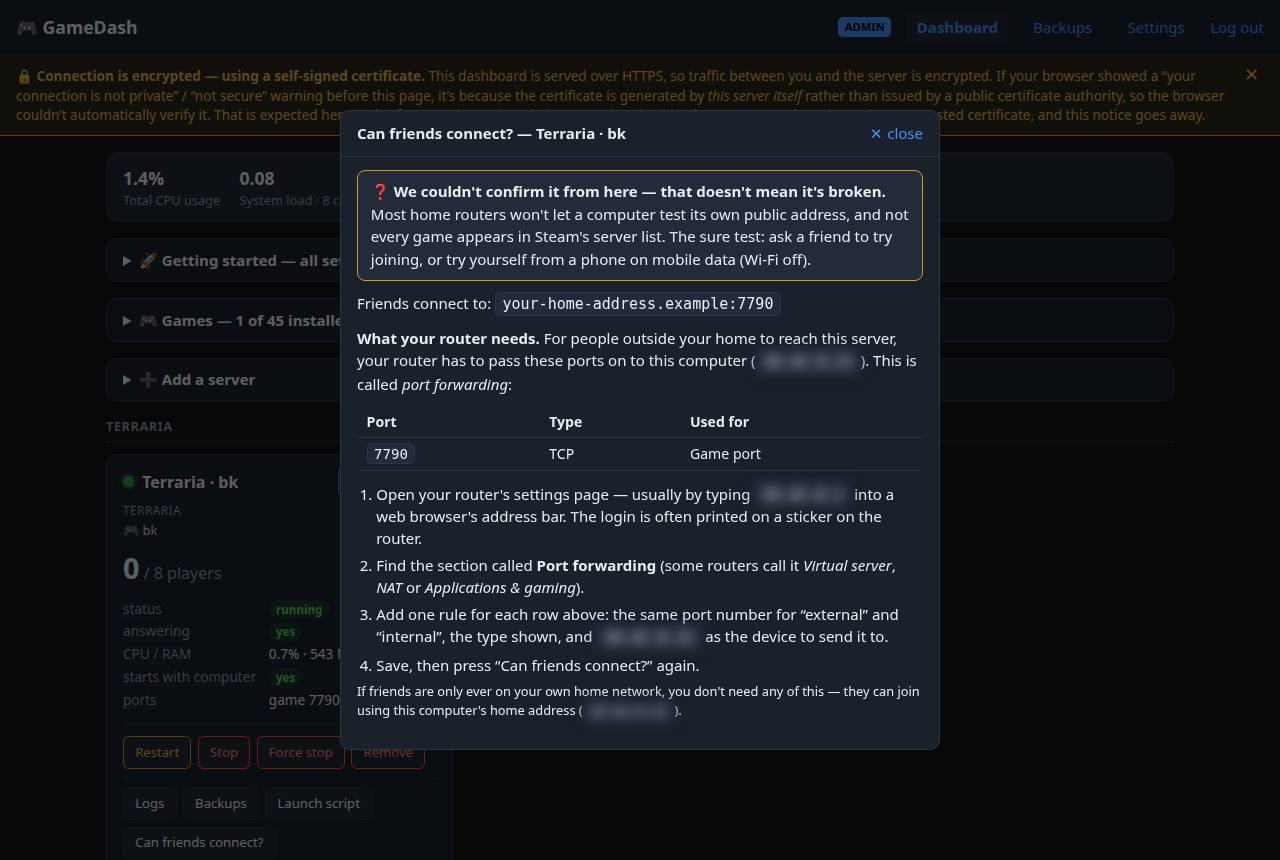
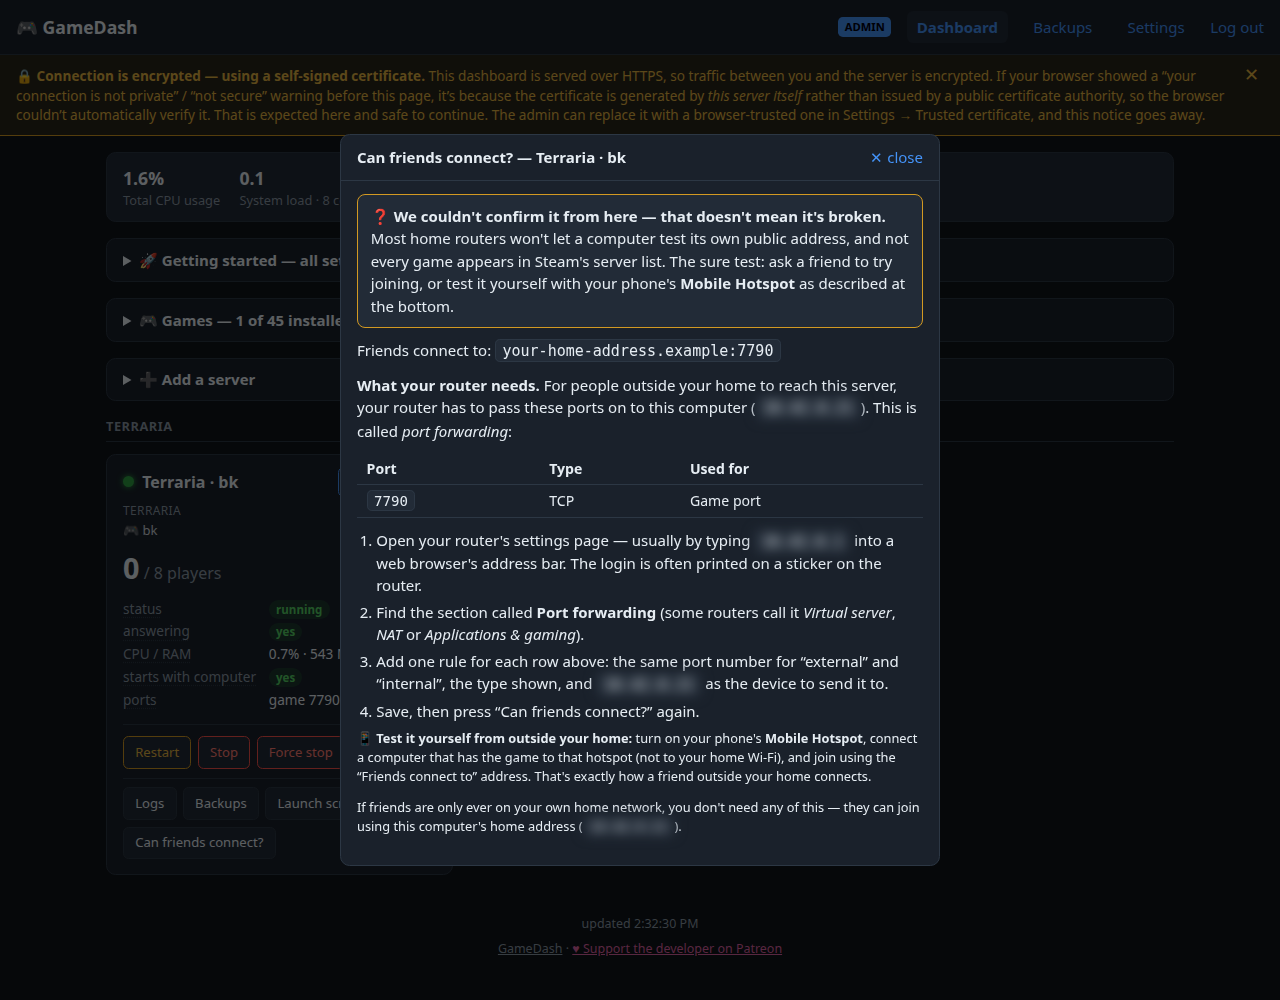
Explain testing from outside the home with the phone's Mobile Hotspot
Can friends connect?, GETTING_STARTED, SUPPORTED_GAMES and the test-report
form now tell people to connect the computer they play on to their phone's
Mobile Hotspot and join with the public address, instead of the vague
"use a phone on mobile data". Screenshot retaken (IP addresses blurred).

diff --git a/app/static/app.js b/app/static/app.js
@@ -436,7 +436,7 @@ const gamedash = (() => {
       stopped: `<p class="reach-v warn">⏸ <b>The server is stopped</b>, so there's nothing to test. Start it, give it a few minutes to finish loading, then check again.</p>`,
       unknown: d.evidence === "no-internet"
         ? `<p class="reach-v warn">❓ <b>Couldn't check.</b> This computer couldn't reach the internet to find your public address. Check its connection and try again.</p>`
-        : `<p class="reach-v warn">❓ <b>We couldn't confirm it from here — that doesn't mean it's broken.</b> Most home routers won't let a computer test its own public address, and not every game appears in Steam's server list. The sure test: ask a friend to try joining, or try yourself from a phone on mobile data (Wi-Fi off).</p>`,
+        : `<p class="reach-v warn">❓ <b>We couldn't confirm it from here — that doesn't mean it's broken.</b> Most home routers won't let a computer test its own public address, and not every game appears in Steam's server list. The sure test: ask a friend to try joining, or test it yourself with your phone's <b>Mobile Hotspot</b> as described at the bottom.</p>`,
     }[d.verdict] || "";
     const rows = d.rules.map((r) =>
       `<tr><td><code>${esc(r.port)}</code></td><td>${esc(r.proto)}</td><td>${esc(r.what)}</td></tr>`).join("");
@@ -452,6 +452,7 @@ const gamedash = (() => {
         <li>Add one rule for each row above: the same port number for “external” and “internal”, the type shown, and ${d.lan_ip ? `<code>${esc(d.lan_ip)}</code>` : "this computer's address"} as the device to send it to.</li>
         <li>Save, then press “Can friends connect?” again.</li>
       </ol>
+      <p class="muted" style="font-size:.8rem">📱 <b>Test it yourself from outside your home:</b> turn on your phone's <b>Mobile Hotspot</b>, connect a computer that has the game to that hotspot (not to your home Wi-Fi), and join using the “Friends connect to” address. That's exactly how a friend outside your home connects.</p>
       <p class="muted" style="font-size:.8rem">If friends are only ever on your own home network, you don't need any of this — they can join using this computer's home address${d.lan_ip ? ` (<code>${esc(d.lan_ip)}</code>)` : ""}.</p>`;
   }
 

diff --git a/docs/SUPPORTED_GAMES.md b/docs/SUPPORTED_GAMES.md
@@ -62,8 +62,10 @@ This list is maintained by hand. When a game is confirmed, update its row here a
 ## How to help test
 
 1. Install the game in GameDash (Games → Install) and add a server with the default settings.
-2. Join it from the game — ideally once from your own home network and once from outside it
-   (a friend, or a phone on mobile data).
+2. Join it from the game — ideally once from your own home network and once from outside it.
+   To test "outside" yourself: turn on your phone's **Mobile Hotspot**, connect the computer you
+   play on to that hotspot (not to your home Wi-Fi), and join using the server's public address
+   (shown under *Can friends connect?*). Or ask a friend to join from their home.
 3. Check the points listed for that game above, plus these for every game:
    - you can join with the join password, and a wrong password is refused;
    - the server card shows you as a player (where the game supports a player list);

diff --git a/docs/DEVELOPMENT_LOG.md b/docs/DEVELOPMENT_LOG.md
@@ -26,6 +26,10 @@ The list of games and their test status is kept separately in
 - **Phone layout:** the top menu ran off the right edge (Settings and Log out unreachable without
   sideways scrolling) — it now wraps onto a second line.
 - "Ark: Survival Evolved" → "ARK: Survival Evolved".
+- **Testing from outside the home, made concrete:** "try from a phone on mobile data" didn't say how to
+  test a game. *Can friends connect?*, the Getting started guide, the testing steps and the test-report
+  form now say: turn on the phone's **Mobile Hotspot**, connect the computer you play on to it (not
+  to the home Wi-Fi), and join with the public address — exactly how a friend outside connects.
 
 ## 2026-10-16 — Version number and release notes
 

diff --git a/docs/GETTING_STARTED.md b/docs/GETTING_STARTED.md
@@ -87,6 +87,10 @@ forward, with step-by-step instructions, and checks whether it worked.
 > GameDash marks them "keep closed" everywhere. They control the server, and they're never meant to
 > be reachable from the internet.
 
+**Test it yourself before telling friends:** turn on your phone's **Mobile Hotspot**, connect the
+computer you play on to that hotspot (not to your home Wi-Fi), and join the game using the address
+shown next to *Friends connect to*. If that works, it works for your friends too.
+
 Give your friends the address and the **join password** (type `gamedash passwords` in a terminal to
 see it again, or change it in **Settings → Game passwords**).
 
